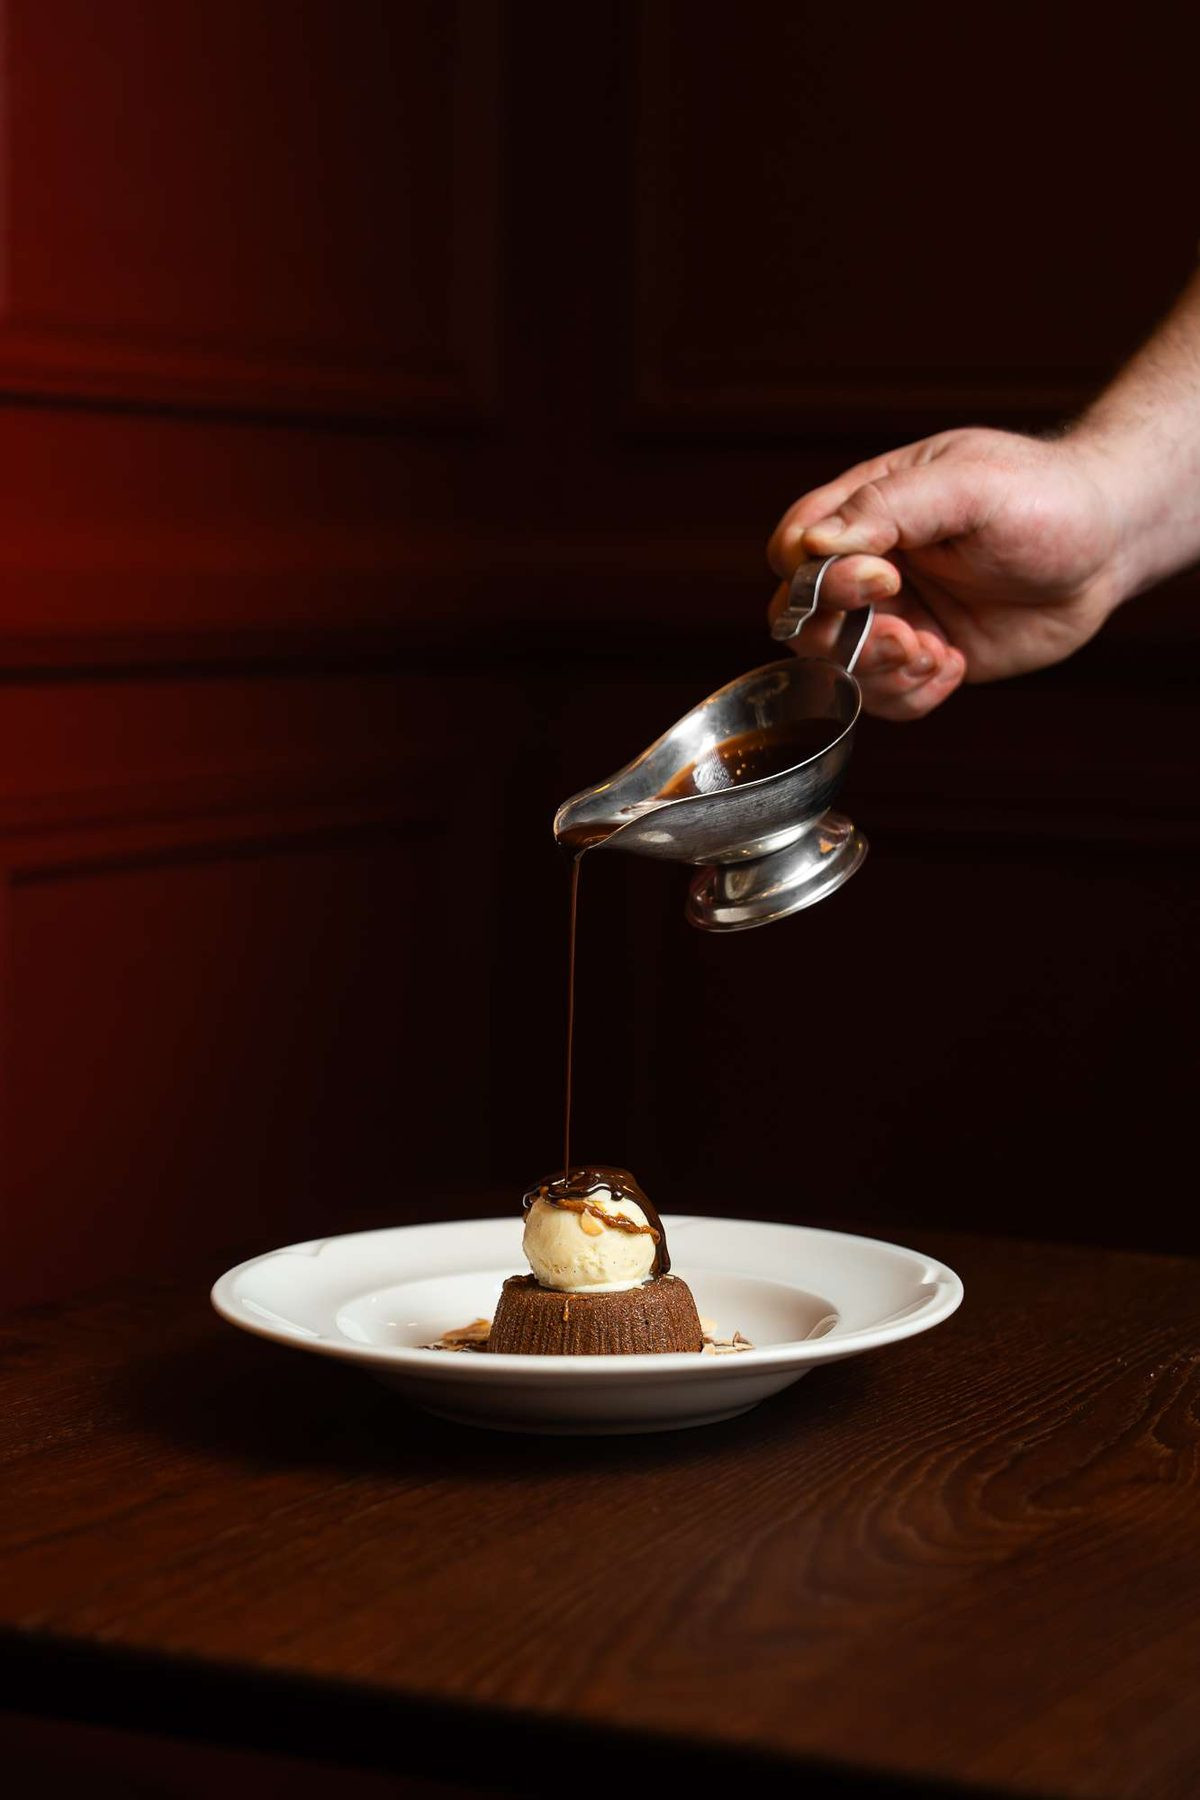
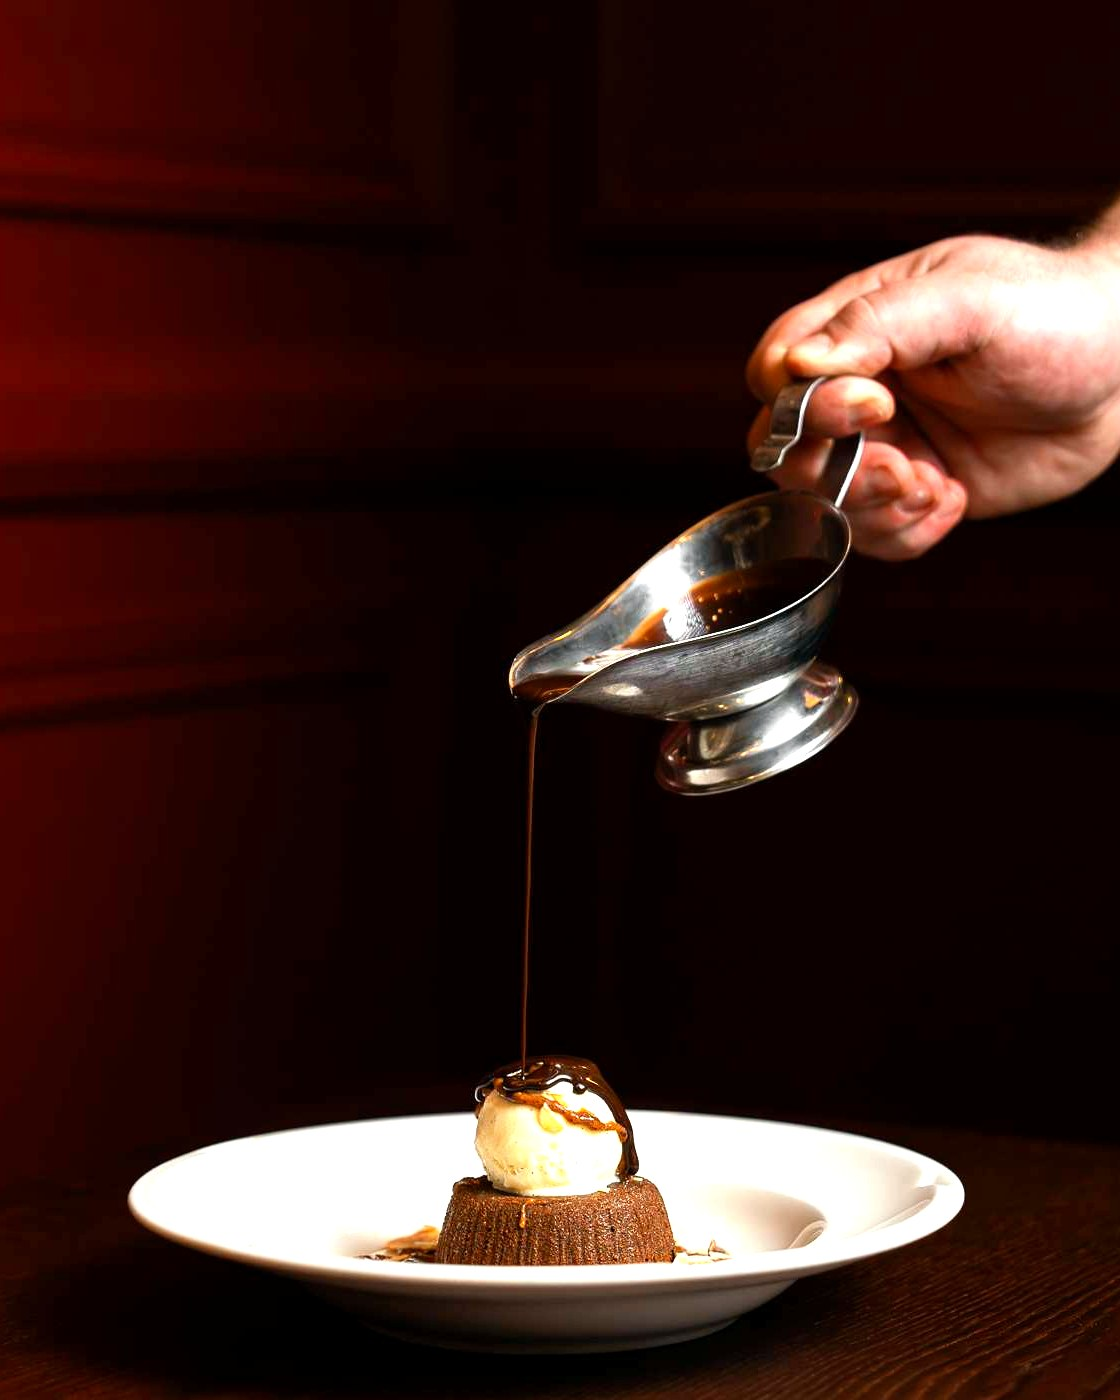
first commit

diff --git a/components/GallerySection.tsx b/components/GallerySection.tsx
@@ -1,40 +1,69 @@
+"use client";
+
+import { useState } from "react";
 import Image from "next/image";
 import ScrollReveal from "./ScrollReveal";
 
 const gallery = [
   {
+    id: "rumsteak",
     src: "/images/rumsteak.jpg",
     alt: "Formule Black Angus avec rumsteak, frites, purée et salade",
-    className: "md:col-span-2 md:row-span-2 h-[420px] md:h-auto md:min-h-[540px]",
+    name: "Formule Black Red",
+    description:
+      "Cœur de rumsteak Angus, frites maison, purée onctueuse et salade de bienvenue — dressée à table.",
+    objectPosition: "center 40%",
   },
   {
+    id: "sauce-verte",
     src: "/images/sauce-verte.jpg",
     alt: "Sauce verte versée sur une pièce de bœuf Angus",
-    className: "h-[360px] md:h-[260px]",
+    name: "Sauce verte signature",
+    description:
+      "Herbes fraîches et beurre, versés à la demande sur une pièce saisie à point.",
+    objectPosition: "center center",
   },
   {
+    id: "profiteroles",
     src: "/images/profiteroles-2.jpg",
     alt: "Profiteroles au chocolat",
-    className: "h-[360px] md:h-[260px]",
+    name: "Profiteroles",
+    description:
+      "Choux croustillants, crème vanille et nappage chocolat noir servi chaud.",
+    objectPosition: "center 45%",
   },
   {
+    id: "fondant",
     src: "/images/fondant-chocolat.jpg",
     alt: "Moelleux au chocolat et glace vanille",
-    className: "h-[360px] md:h-[280px]",
+    name: "Moelleux au chocolat",
+    description:
+      "Cœur coulant, glace vanille et sauce chocolat versée devant vous.",
+    objectPosition: "center 35%",
   },
   {
+    id: "tarte",
     src: "/images/tarte.jpg",
     alt: "Tarte aux pommes maison",
-    className: "h-[360px] md:h-[280px]",
+    name: "Tarte maison",
+    description:
+      "Pâte sablée, pommes caramélisées et amandes effilées — au choix aussi poire ou citron.",
+    objectPosition: "center 40%",
   },
   {
-    src: "/images/desserts-platter.jpg",
-    alt: "Sélection de desserts Black Angus",
-    className: "md:col-span-2 h-[300px] md:h-[340px]",
+    id: "filet",
+    src: "/images/filet.jpg",
+    alt: "Filet Angus et frites, sauce signature",
+    name: "Black Premium",
+    description:
+      "Filet de bœuf Angus, frites croustillantes et sauce maison coulée à table.",
+    objectPosition: "center 40%",
   },
 ];
 
 export default function GallerySection() {
+  const [activeId, setActiveId] = useState<string | null>(null);
+
   return (
     <section id="galerie" className="bg-black py-32 lg:py-40">
       <div className="mx-auto max-w-7xl px-6 lg:px-8">
@@ -48,34 +77,87 @@ export default function GallerySection() {
             </h2>
             <div className="divider-gold mx-auto mt-10" />
             <p className="mx-auto mt-10 max-w-lg text-sm tracking-wide text-foreground-muted">
-              Viandes maturées, sauces signature et desserts maison —
-              capturés à table, avenue de la République.
+              Survolez une photo pour en lire la description.
             </p>
           </div>
         </ScrollReveal>
 
-        <div className="mt-24 grid grid-cols-1 gap-4 sm:grid-cols-2 md:grid-cols-4 md:gap-5">
-          {gallery.map((shot, index) => (
-            <ScrollReveal
-              key={shot.src}
-              delay={index * 80}
-              className={shot.className}
-            >
-              <div className="group relative h-full w-full overflow-hidden">
-                <Image
-                  src={shot.src}
-                  alt={shot.alt}
-                  fill
-                  sizes="(max-width: 768px) 100vw, 50vw"
-                  className="object-cover transition-transform duration-1000 ease-out group-hover:scale-[1.04]"
-                />
-                <div
-                  className="pointer-events-none absolute inset-0 bg-gradient-to-t from-black/45 via-transparent to-transparent"
-                  aria-hidden="true"
-                />
-              </div>
-            </ScrollReveal>
-          ))}
+        <div className="mt-24 grid grid-cols-1 items-start gap-x-5 gap-y-2 sm:grid-cols-2 lg:grid-cols-3">
+          {gallery.map((shot, index) => {
+            const isActive = activeId === shot.id;
+
+            return (
+              <ScrollReveal key={shot.id} delay={index * 70}>
+                <article
+                  className="flex flex-col"
+                  onMouseEnter={() => setActiveId(shot.id)}
+                  onMouseLeave={() => setActiveId(null)}
+                >
+                  <button
+                    type="button"
+                    className="group relative block aspect-[4/5] w-full cursor-pointer overflow-hidden border-0 bg-transparent p-0 text-left outline-none focus-visible:ring-1 focus-visible:ring-champagne/50"
+                    aria-expanded={isActive}
+                    aria-controls={`gallery-desc-${shot.id}`}
+                    onFocus={() => setActiveId(shot.id)}
+                    onBlur={(e) => {
+                      if (!e.currentTarget.parentElement?.contains(e.relatedTarget as Node)) {
+                        setActiveId(null);
+                      }
+                    }}
+                    onClick={() => {
+                      const canHover =
+                        typeof window !== "undefined" &&
+                        window.matchMedia("(hover: hover)").matches;
+                      if (canHover) return;
+                      setActiveId((current) =>
+                        current === shot.id ? null : shot.id,
+                      );
+                    }}
+                  >
+                    <Image
+                      src={shot.src}
+                      alt={shot.alt}
+                      fill
+                      sizes="(max-width: 640px) 100vw, (max-width: 1024px) 50vw, 33vw"
+                      className="object-cover transition-transform duration-1000 ease-out group-hover:scale-[1.03]"
+                      style={{ objectPosition: shot.objectPosition }}
+                    />
+                    <div
+                      className="pointer-events-none absolute inset-0 bg-gradient-to-t from-black/35 via-transparent to-transparent"
+                      aria-hidden="true"
+                    />
+                  </button>
+
+                  <div
+                    id={`gallery-desc-${shot.id}`}
+                    className="grid transition-[grid-template-rows] duration-500 ease-[cubic-bezier(0.22,1,0.36,1)]"
+                    style={{
+                      gridTemplateRows: isActive ? "1fr" : "0fr",
+                    }}
+                  >
+                    <div className="overflow-hidden">
+                      <div
+                        className={`px-1 pt-5 pb-6 transition-opacity duration-500 ${
+                          isActive ? "opacity-100" : "opacity-0"
+                        }`}
+                      >
+                        <p className="text-[10px] font-medium uppercase tracking-[0.3em] text-champagne">
+                          Assiette
+                        </p>
+                        <h3 className="font-heading mt-3 text-2xl font-normal text-neutral-200">
+                          {shot.name}
+                        </h3>
+                        <div className="divider-gold mt-4" />
+                        <p className="mt-4 max-w-sm text-sm leading-relaxed tracking-wide text-foreground-muted">
+                          {shot.description}
+                        </p>
+                      </div>
+                    </div>
+                  </div>
+                </article>
+              </ScrollReveal>
+            );
+          })}
         </div>
       </div>
     </section>

diff --git a/styles/globals.css b/styles/globals.css
@@ -24,6 +24,7 @@
   --animate-scroll-line: scroll-line 2s ease-in-out infinite;
   --animate-lightbox-backdrop: lightbox-backdrop 0.6s ease-out forwards;
   --animate-lightbox-content: lightbox-content 0.7s cubic-bezier(0.22, 1, 0.36, 1) forwards;
+  --animate-dessert-pulse: dessert-pulse 2.8s ease-in-out infinite;
 
   @keyframes lightbox-backdrop {
     from {
@@ -65,6 +66,18 @@
     50% {
       opacity: 1;
       transform: scaleY(1);
+    }
+  }
+
+  @keyframes dessert-pulse {
+    0%,
+    100% {
+      transform: scale(0.85);
+      opacity: 0.35;
+    }
+    50% {
+      transform: scale(1.15);
+      opacity: 0.75;
     }
   }
 }

diff --git a/data/menu.ts b/data/menu.ts
@@ -5,6 +5,7 @@ export interface MenuItemData {
   price: string;
   image: string;
   badge?: string;
+  imagePosition?: string;
 }
 
 export type MenuCategoryId = "meats" | "desserts" | "cocktails" | "mocktails";
@@ -22,13 +23,13 @@ const STEAK_IMAGE = "/images/rumsteak.jpg";
 const RIBEYE_IMAGE = "/images/sauce-verte.jpg";
 const FILET_IMAGE = "/images/filet.jpg";
 
-const SORBET_IMAGE =
-  "https://images.unsplash.com/photo-1563805042-7684c019e1cb?auto=format&fit=crop&q=80&w=1200";
-const TARTE_IMAGE = "/images/tarte.jpg";
 const CREME_BRULEE_IMAGE =
   "https://images.unsplash.com/photo-1470124182917-cc6e71b22ecc?auto=format&fit=crop&q=80&w=1200";
+const TARTE_IMAGE = "/images/tarte.jpg";
 const BABA_IMAGE =
   "https://images.unsplash.com/photo-1563729784474-d77dbb933a9e?auto=format&fit=crop&q=80&w=1200";
+const SORBET_IMAGE =
+  "https://images.unsplash.com/photo-1563805042-7684c019e1cb?auto=format&fit=crop&q=80&w=1200";
 const PROFITEROLES_IMAGE = "/images/profiteroles.jpg";
 const MOELLEUX_IMAGE = "/images/fondant-chocolat.jpg";
 
@@ -129,6 +130,7 @@ export const menuCategories: MenuCategoryData[] = [
         price: "12 €",
         image: MOELLEUX_IMAGE,
         badge: "Chef's Choice",
+        imagePosition: "center 32%",
       },
     ],
   },

diff --git a/components/MenuLightbox.tsx b/components/MenuLightbox.tsx
@@ -74,6 +74,11 @@ export default function MenuLightbox({ item, onClose }: MenuLightboxProps) {
             fill
             sizes="(max-width: 768px) 100vw, 512px"
             className="object-cover transition-transform duration-700 ease-out"
+            style={
+              item.imagePosition
+                ? { objectPosition: item.imagePosition }
+                : undefined
+            }
             priority
           />
           <div